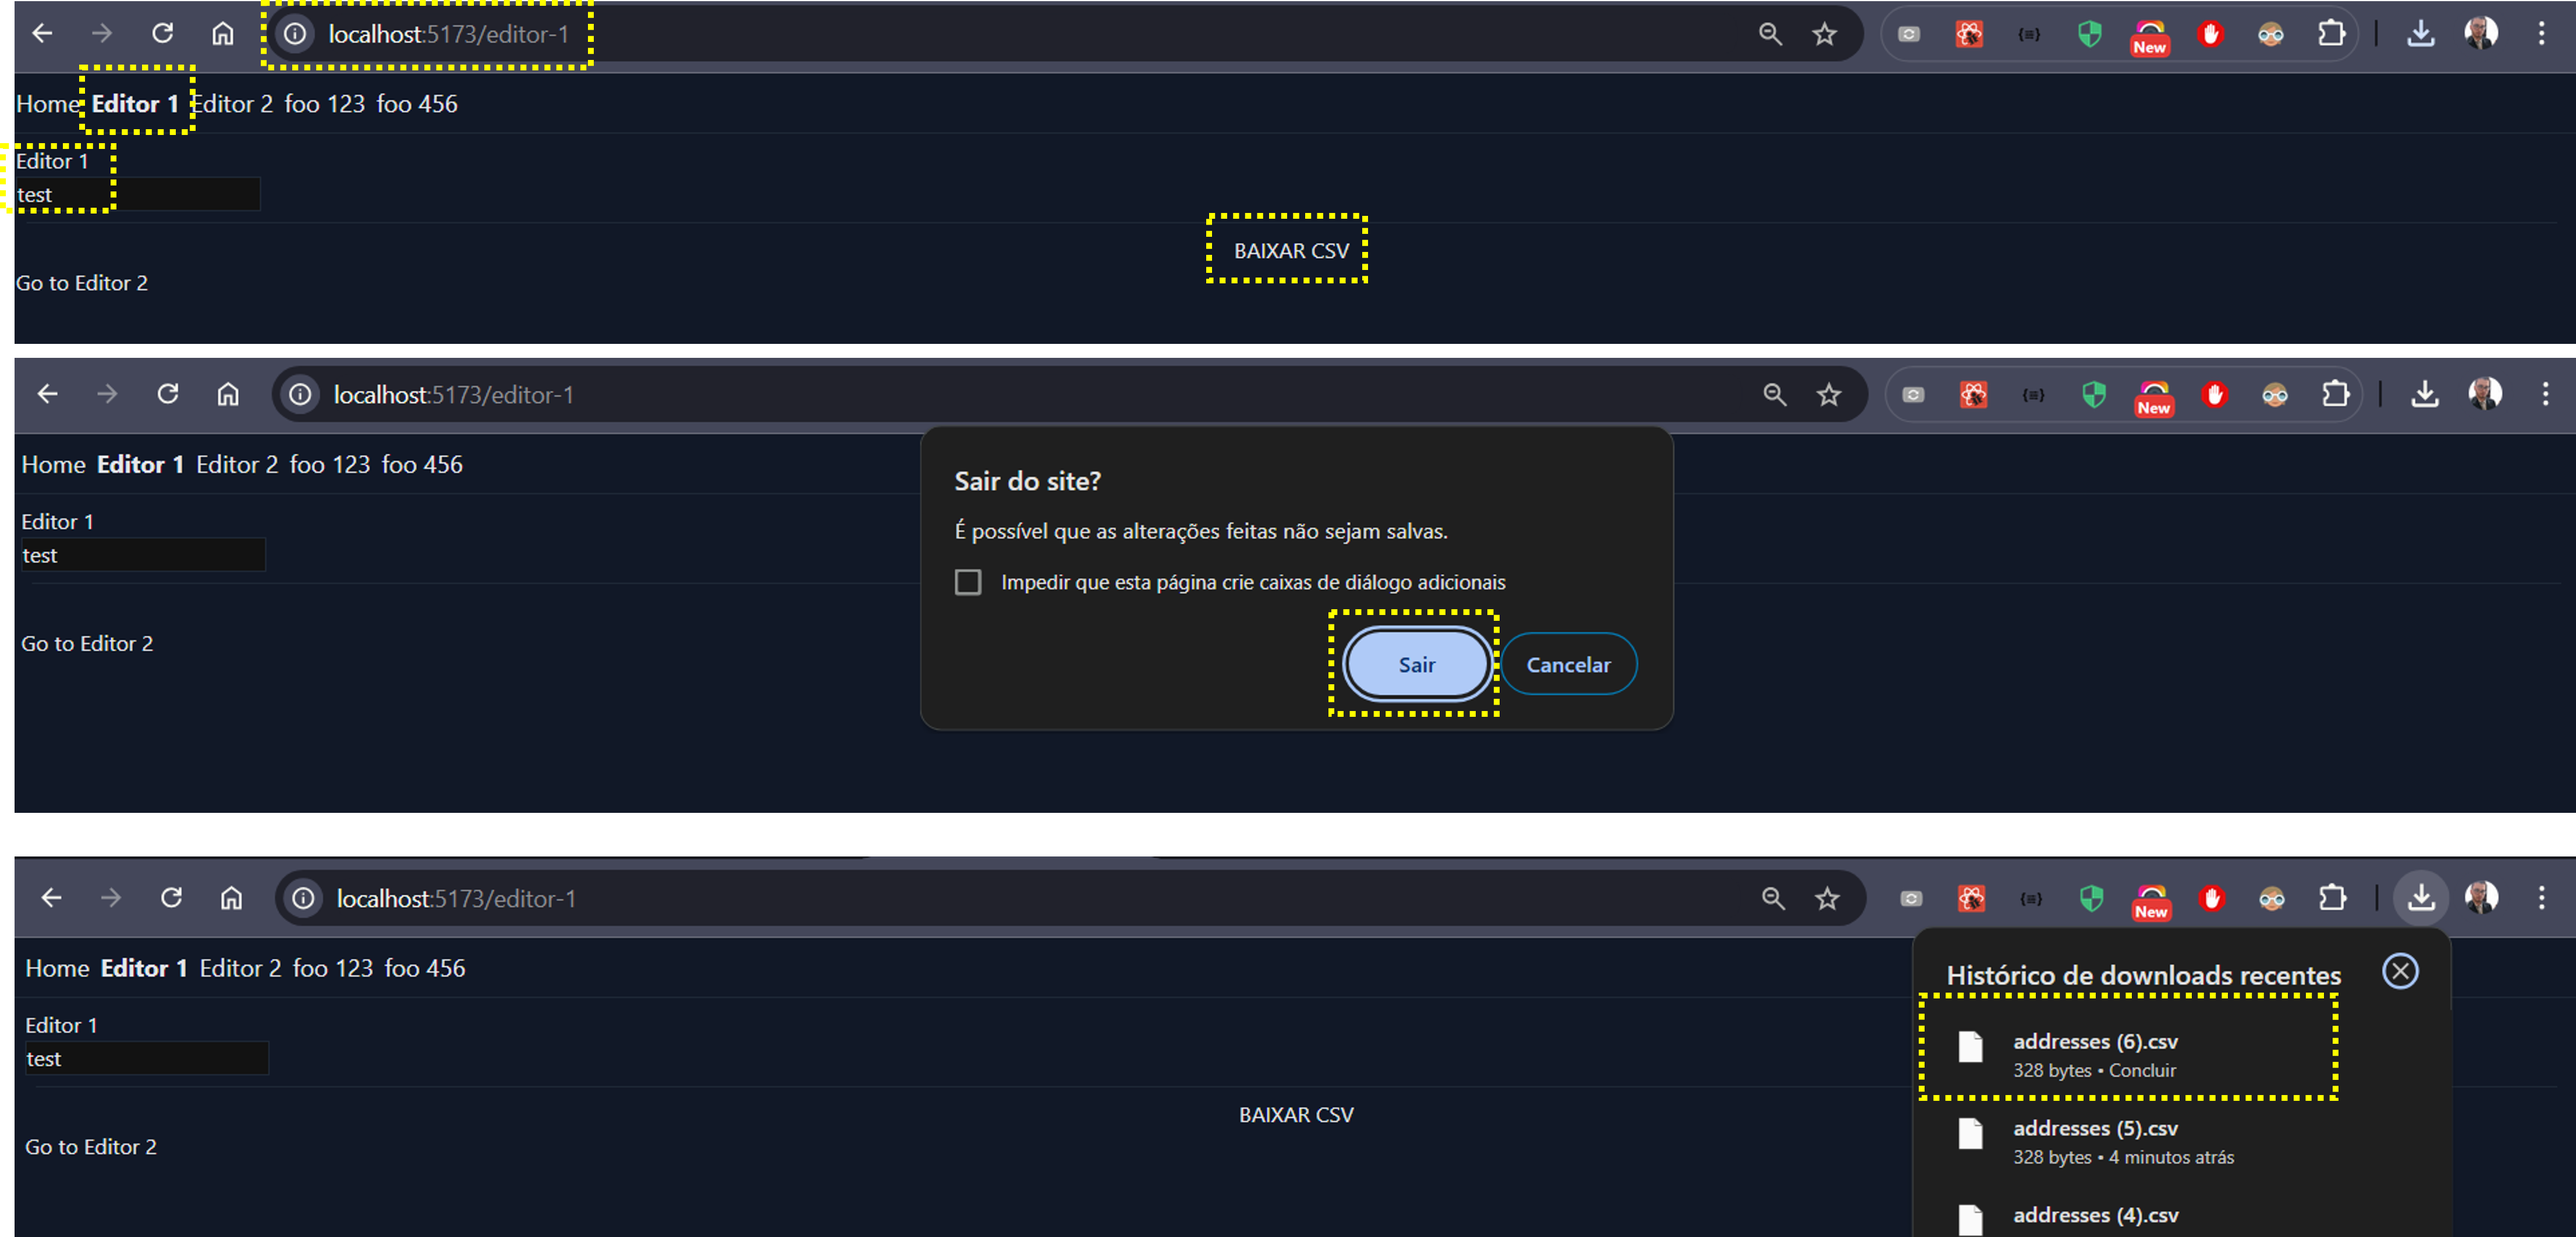
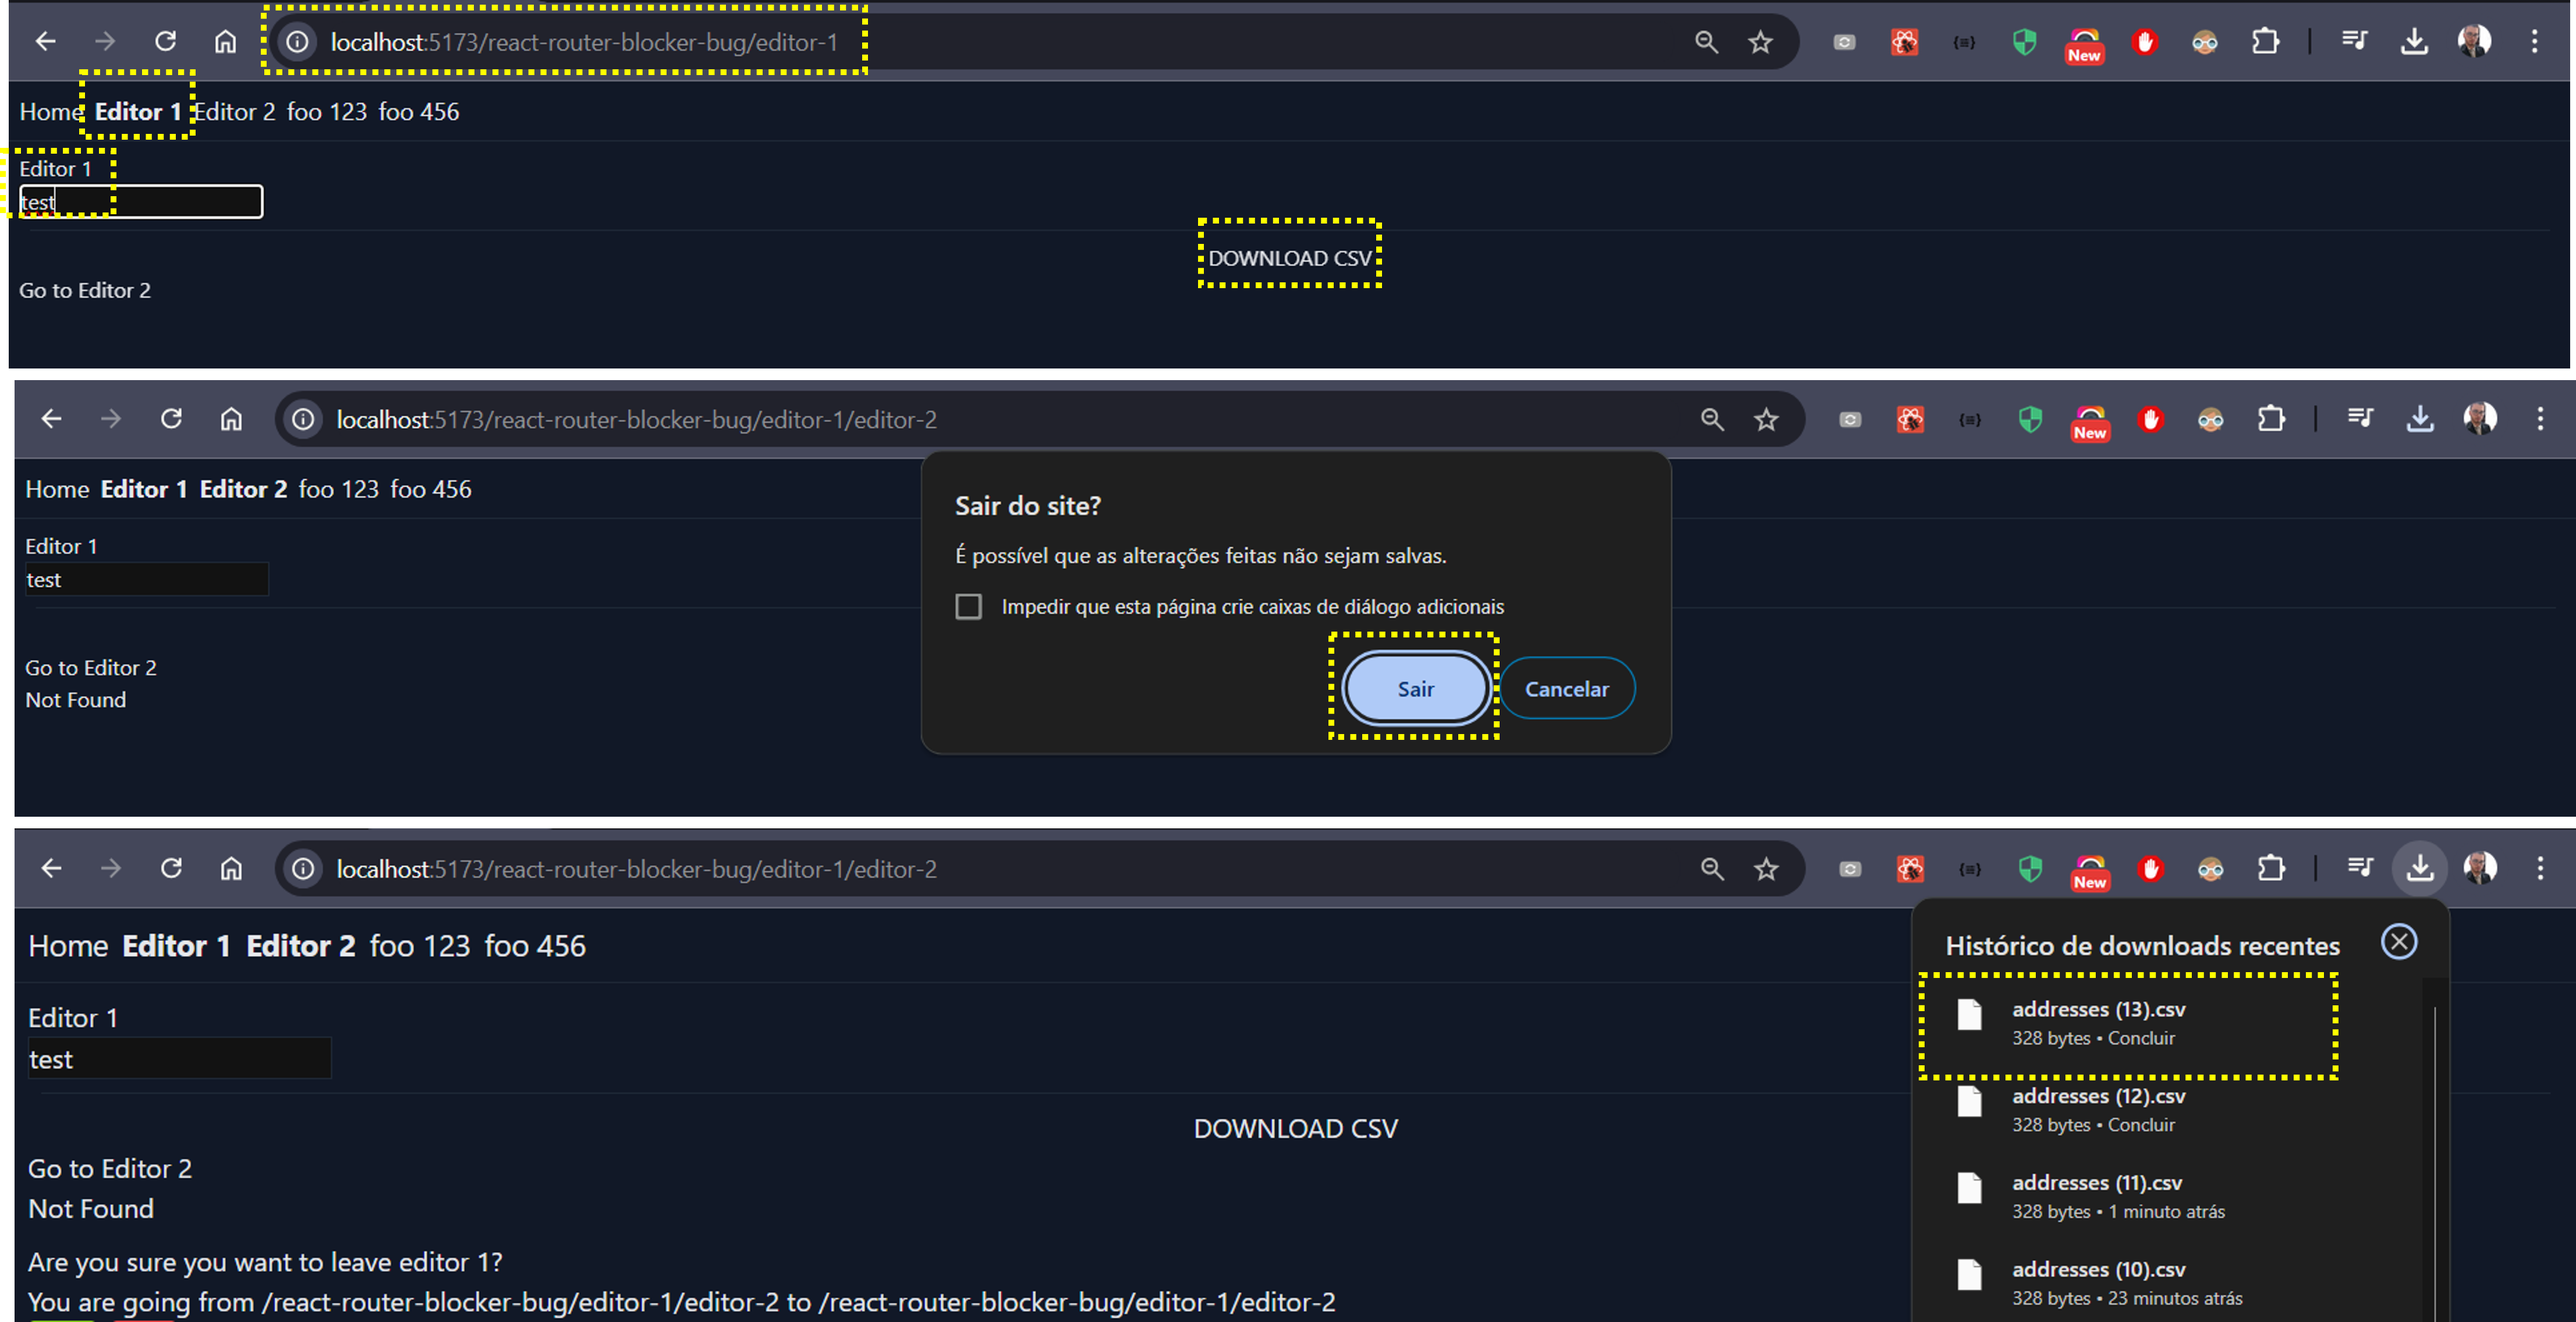
change domain

diff --git a/src/main.tsx b/src/main.tsx
@@ -20,8 +20,8 @@ function RootComponent() {
   const { proceed, reset, status } = useBlocker({
     shouldBlockFn: ({ current, next }) => {
       if (
-        current.routeId === '/editor-1' &&
-        next.fullPath === '/foo/$id' &&
+        current.routeId === '/react-router-blocker-bug/editor-1' &&
+        next.fullPath === '/react-router-blocker-bug/foo/$id' &&
         next.params.id === '123' &&
         next.search.hello === 'world'
       ) {
@@ -37,7 +37,7 @@ function RootComponent() {
     <>
       <div className="p-2 flex gap-2 text-lg">
         <Link
-          to="/"
+          to="/react-router-blocker-bug"
           activeProps={{
             className: 'font-bold',
           }}
@@ -46,7 +46,7 @@ function RootComponent() {
           Home
         </Link>{' '}
         <Link
-          to="/editor-1"
+          to="/react-router-blocker-bug/editor-1"
           activeProps={{
             className: 'font-bold',
           }}
@@ -54,7 +54,7 @@ function RootComponent() {
           Editor 1
         </Link>{' '}
         <Link
-          to={'/editor-1/editor-2'}
+          to={'/react-router-blocker-bug/editor-1/editor-2'}
           activeProps={{
             className: 'font-bold',
           }}
@@ -62,7 +62,7 @@ function RootComponent() {
           Editor 2
         </Link>{' '}
         <Link
-          to="/foo/$id"
+          to="/react-router-blocker-bug/foo/$id"
           params={{ id: '123' }}
           search={{ hello: 'world' }}
           activeProps={{
@@ -73,7 +73,7 @@ function RootComponent() {
           foo 123
         </Link>{' '}
         <Link
-          to="/foo/$id"
+          to="/react-router-blocker-bug/foo/$id"
           params={{ id: '456' }}
           search={{ hello: 'universe' }}
           activeProps={{
@@ -113,7 +113,7 @@ function RootComponent() {
 
 const indexRoute = createRoute({
   getParentRoute: () => rootRoute,
-  path: '/',
+  path: 'react-router-blocker-bug',
   component: IndexComponent,
 })
 
@@ -127,14 +127,14 @@ function IndexComponent() {
 
 const fooRoute = createRoute({
   getParentRoute: () => rootRoute,
-  path: 'foo/$id',
+  path: 'react-router-blocker-bug/foo/$id',
   validateSearch: (search) => ({ hello: search.hello }) as { hello: string },
   component: () => <>foo {fooRoute.useParams().id}</>,
 })
 
 const editor1Route = createRoute({
   getParentRoute: () => rootRoute,
-  path: 'editor-1',
+  path: 'react-router-blocker-bug/editor-1',
   component: Editor1Component,
 })
 
@@ -168,7 +168,7 @@ function Editor1Component() {
       </div>
       <hr className="m-2" />
       <button onClick={() => handleDownload('https://people.sc.fsu.edu/~jburkardt/data/csv/addresses.csv')}>DOWNLOAD CSV</button>
-      <Link to="/editor-1/editor-2">Go to Editor 2</Link>
+      <Link to="/react-router-blocker-bug/editor-1/editor-2">Go to Editor 2</Link>
       <Outlet />
 
       {status === 'blocked' && (
@@ -197,7 +197,7 @@ function Editor1Component() {
 
 const editor2Route = createRoute({
   getParentRoute: () => editor1Route,
-  path: 'editor-2',
+  path: 'react-router-blocker-bug/editor-2',
   component: Editor2Component,
 })
 
